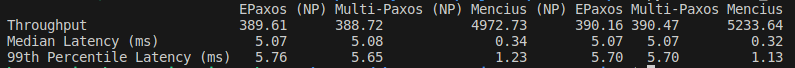
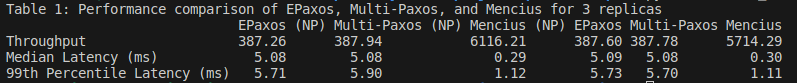
Create the table1 locally. The output is in the results/ folder.

diff --git a/scripts/create_table1.py b/scripts/create_table1.py
@@ -4,7 +4,7 @@ import re
 
 def run_analysis(filename):
     if "np_" in filename:
-        command = ["python3", f"analysis.py", f"logs/{filename}-S3-C2-r20000-b1-c0--client0.out"]
+        command = ["python3", f"analysis.py", f"logs/{filename}-S3-C2-r20000-b1-c-1--client0.out"]
     else:
         command = ["python3", f"analysis.py", f"logs/{filename}-S3-C2-r20000-b1-c0--client0.out"]
     result = subprocess.run(command, capture_output=True, text=True)
@@ -32,4 +32,5 @@ for system, file_name in zip(systems, file_names):
     output = run_analysis(file_name)
     fill_table(df, system, output)
 
+print("Table 1: Performance comparison of EPaxos, Multi-Paxos, and Mencius for 3 replicas")
 print(df.to_string(index=True, justify='left', float_format='{:.2f}'.format))

diff --git a/scripts/Readme.md b/scripts/Readme.md
@@ -1,8 +1,10 @@
 Implementation details
 ======
 
+## Plays a sound when all client processes are finished
+
 ## Table 1 (4 EC2 instances, 1 for the master + a server, 2 for servers and 1 for the client)
-### NP (No-pipelined with small commands)
+### NP (No-pipelined with big commands)
 #### Epaxos (epaxos_enabled=true), Multi-Paxos (epaxos_enabled=false) and Mencius (mencius_enabled=true)
 - run_master **replicas** <br>
  ```bash
@@ -14,7 +16,7 @@ Implementation details
  ```
 - run_client **replicas** **clients** **requests** **writes** **epaxos_enabled** **batch_size** **GOMAXPROCS** **conflicts** **filename** <br>
  ```bash
-./run_client.sh 3 2 20000 50 true 1 2 0 np_epaxos
+./run_client.sh 3 2 20000 100 true 1 2 -1 np_epaxos
  ```
 
 ### (pipelined with small commands)
